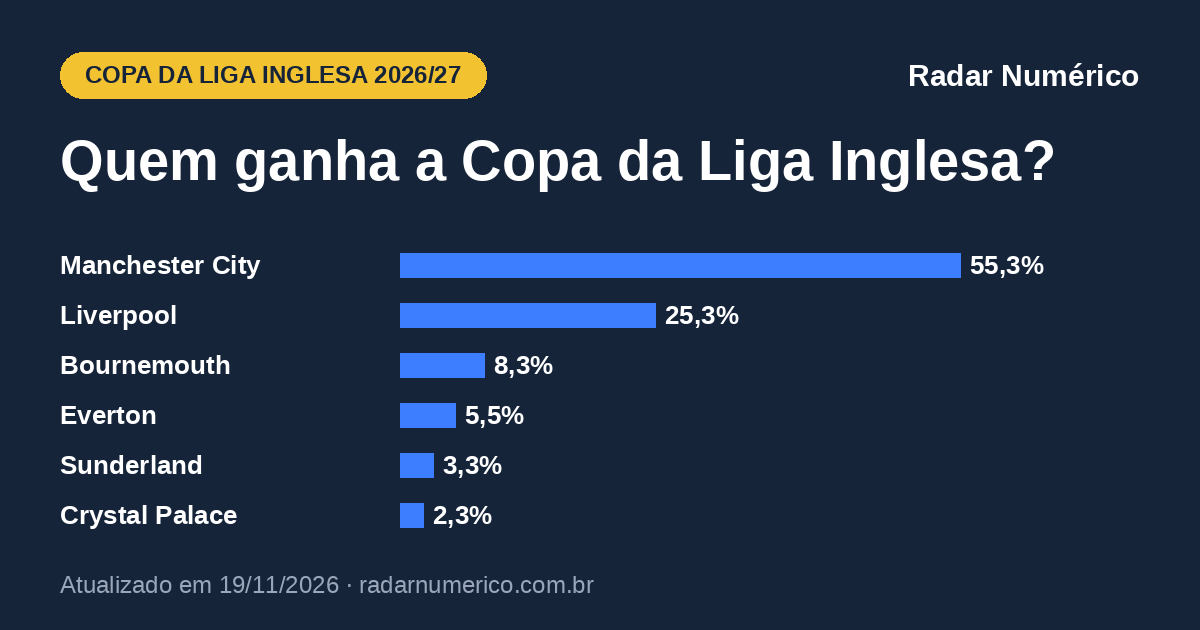
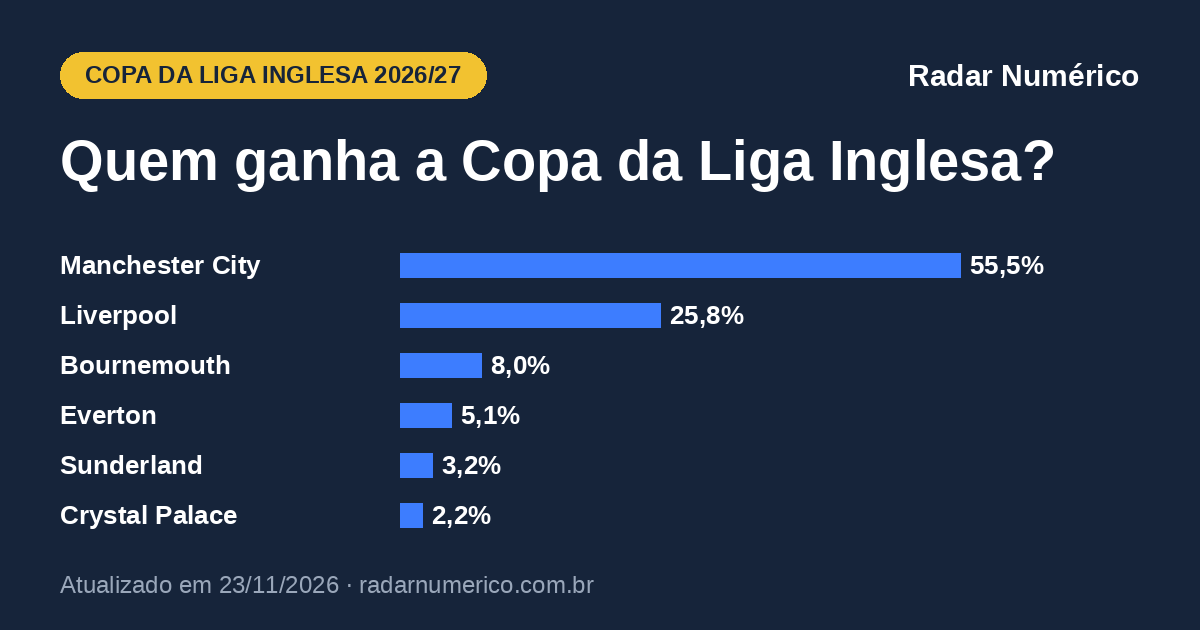
Ranking, ligas e copas europeias: atualização semanal 2026-11-23 - futebol/copa-da-liga-inglesa
Claude-Session: https://claude.ai/code/session_014c9M3oryqlsr8hzscwb7oa

diff --git a/futebol/copa-da-liga-inglesa/index.html b/futebol/copa-da-liga-inglesa/index.html
@@ -13,11 +13,11 @@
 <meta property="og:title" content="Copa da Liga Inglesa 2026/27: chances de título">
 <meta property="og:description" content="Probabilidades da Copa da Liga Inglesa 2026/27: chance de cada time chegar às quartas, à semifinal, à final e de ser campeão.">
 <meta property="og:url" content="https://radarnumerico.com.br/futebol/copa-da-liga-inglesa/">
-<meta property="og:image" content="https://radarnumerico.com.br/futebol/copa-da-liga-inglesa/og.png?v=202611190848">
+<meta property="og:image" content="https://radarnumerico.com.br/futebol/copa-da-liga-inglesa/og.png?v=202611230848">
 <meta property="og:image:width" content="1200">
 <meta property="og:image:height" content="630">
 <meta name="twitter:card" content="summary_large_image">
-<script type="application/ld+json">{"@context": "https://schema.org", "@graph": [{"@type": "WebPage", "@id": "https://radarnumerico.com.br/futebol/copa-da-liga-inglesa/", "url": "https://radarnumerico.com.br/futebol/copa-da-liga-inglesa/", "name": "Copa da Liga Inglesa 2026/27: chances de título", "description": "Probabilidades da Copa da Liga Inglesa 2026/27: chance de cada time chegar às quartas, à semifinal, à final e de ser campeão.", "inLanguage": "pt-BR", "dateModified": "2026-11-19T08:48:00-03:00", "isPartOf": {"@type": "WebSite", "name": "Radar Numérico", "url": "https://radarnumerico.com.br/"}, "about": {"@type": "Thing", "name": "Copa da Liga Inglesa 2026/27"}}, {"@type": "BreadcrumbList", "itemListElement": [{"@type": "ListItem", "position": 1, "name": "Radar Numérico", "item": "https://radarnumerico.com.br/"}, {"@type": "ListItem", "position": 2, "name": "Copa da Liga Inglesa 2026/27: probabilidades", "item": "https://radarnumerico.com.br/futebol/copa-da-liga-inglesa/"}]}]}</script>
+<script type="application/ld+json">{"@context": "https://schema.org", "@graph": [{"@type": "WebPage", "@id": "https://radarnumerico.com.br/futebol/copa-da-liga-inglesa/", "url": "https://radarnumerico.com.br/futebol/copa-da-liga-inglesa/", "name": "Copa da Liga Inglesa 2026/27: chances de título", "description": "Probabilidades da Copa da Liga Inglesa 2026/27: chance de cada time chegar às quartas, à semifinal, à final e de ser campeão.", "inLanguage": "pt-BR", "dateModified": "2026-11-23T08:48:00-03:00", "isPartOf": {"@type": "WebSite", "name": "Radar Numérico", "url": "https://radarnumerico.com.br/"}, "about": {"@type": "Thing", "name": "Copa da Liga Inglesa 2026/27"}}, {"@type": "BreadcrumbList", "itemListElement": [{"@type": "ListItem", "position": 1, "name": "Radar Numérico", "item": "https://radarnumerico.com.br/"}, {"@type": "ListItem", "position": 2, "name": "Copa da Liga Inglesa 2026/27: probabilidades", "item": "https://radarnumerico.com.br/futebol/copa-da-liga-inglesa/"}]}]}</script>
 <link rel="icon" type="image/png" href="/favicon.png">
 <link rel="apple-touch-icon" href="/apple-touch-icon.png">
 <link rel="preconnect" href="https://fonts.googleapis.com">
@@ -441,8 +441,8 @@ table.mzf td.bc{color:#fff}
 <header class="pg">
   <div class="kicker">Futebol · Inglaterra</div>
   <h1>Copa da Liga Inglesa 2026/27: chances de título</h1>
-  <div class="selo" id="selo"><span>Atualizado em <b>19/11/2026 às 08h48</b></span><span>fase atual: <b>Quartas</b></span><span>8 times vivos</span></div>
-  <p class="lede">O favorito ao título da Copa da Liga Inglesa é o <b>Manchester City</b>, com 55,3%, seguido por Liverpool (25,3%) e Bournemouth (8,3%). Calculamos, para os 8 times vivos, a chance de chegar a cada fase, simulando os jogos já marcados e o sorteio das fases seguintes 20 mil vezes. O campeão ganha vaga na Conference League.</p>
+  <div class="selo" id="selo"><span>Atualizado em <b>23/11/2026 às 08h48</b></span><span>fase atual: <b>Quartas</b></span><span>8 times vivos</span></div>
+  <p class="lede">O favorito ao título da Copa da Liga Inglesa é o <b>Manchester City</b>, com 55,5%, seguido por Liverpool (25,8%) e Bournemouth (8,0%). Calculamos, para os 8 times vivos, a chance de chegar a cada fase, simulando os jogos já marcados e o sorteio das fases seguintes 20 mil vezes. O campeão ganha vaga na Conference League.</p>
 </header>
 
 <section class="g" id="s-trilha">
@@ -500,7 +500,7 @@ table.mzf td.bc{color:#fff}
 
 <div class="metod">
   <p class="marca">Radar Numérico</p>
-  <p id="rodape">Probabilidades da Copa da Liga Inglesa 2026/27 atualizadas em 19/11/2026 às 08h48.</p>
+  <p id="rodape">Probabilidades da Copa da Liga Inglesa 2026/27 atualizadas em 23/11/2026 às 08h48.</p>
   <p>Como calculamos: um algoritmo desenvolvido pelo economista Augusto Pellegrini estima a força de cada time a partir das cotações de mercado de todos os seus jogos recentes, em todas as competições. Simulamos a copa 20 mil vezes: os jogos já marcados e, depois, o sorteio de cada fase. Empate em jogo único vai à prorrogação e aos pênaltis. Fonte: Radar Numérico.</p>
 </div>
 </main>
@@ -509,7 +509,7 @@ table.mzf td.bc{color:#fff}
 <div id="tip" role="tooltip"></div>
 <div id="toast" role="status"></div>
 <script>
-const D = {"slug":"copa-da-liga-inglesa","nome":"Copa da Liga Inglesa","gerado_em":"2026-11-19T08:48","tams":[8,4,2,1],"rot":["Quartas","Semifinal","Final","Campeão"],"atual_rot":"Quartas","cai_antes":"","n_vivos":8,"times":{"Manchester City":{"id":"2528","fases":[1.0,0.8432,0.7367,0.5528],"campeao":0.5528,"forca":74.1,"cab":false},"Bournemouth":{"id":"2342","fases":[1.0,0.6115,0.2719,0.0832],"campeao":0.0832,"forca":60.4,"cab":false},"Crystal Palace":{"id":"2537","fases":[1.0,0.4711,0.1235,0.0232],"campeao":0.0232,"forca":53.3,"cab":false},"Liverpool":{"id":"2538","fases":[1.0,0.7403,0.5093,0.2526],"campeao":0.2526,"forca":67.9,"cab":false},"Fleetwood Town":{"id":"1167","fases":[1.0,0.088,0.0008,0.0],"campeao":0.0,"forca":27.1,"cab":false},"Bradford City":{"id":"2321","fases":[1.0,0.1915,0.0073,0.0001],"campeao":0.0001,"forca":36.2,"cab":false},"Sunderland":{"id":"2364","fases":[1.0,0.5039,0.1495,0.0333],"campeao":0.0333,"forca":55.3,"cab":false},"Everton":{"id":"2526","fases":[1.0,0.5507,0.2011,0.0546],"campeao":0.0546,"forca":57.7,"cab":false}},"ordem":["Manchester City","Liverpool","Bournemouth","Everton","Sunderland","Crystal Palace","Bradford City","Fleetwood Town"],"confrontos":[],"finais":[{"a":"Manchester City","b":"Liverpool","p":0.3128,"pa":0.6445},{"a":"Bournemouth","b":"Manchester City","p":0.1543,"pa":0.2061},{"a":"Everton","b":"Manchester City","p":0.1115,"pa":0.1821},{"a":"Sunderland","b":"Manchester City","p":0.0843,"pa":0.1407},{"a":"Bournemouth","b":"Liverpool","p":0.0721,"pa":0.3331},{"a":"Manchester City","b":"Crystal Palace","p":0.0692,"pa":0.875}],"outros":0.0002,"matriz":{"tipo":"sorteio","linhas":[["Manchester City",0.7367],["Liverpool",0.5093],["Bournemouth",0.2719],["Everton",0.2011],["Sunderland",0.1495]],"colunas":[["Liverpool",0.5093],["Bournemouth",0.2719],["Everton",0.2011],["Sunderland",0.1495],["Crystal Palace",0.1235]],"cel":[[0.3128,0.1543,0.1115,0.0843,0.0692],[null,0.0721,0.0529,0.0372,0.0323],[null,null,0.02,0.0137,0.0111],[null,null,null,0.0099,0.0065],[null,null,null,null,0.0044]]},"chave":{"fases":["Quartas","Semifinal","Final"],"jogos":[[null,null],[null,null],[null,null],[null,null]],"atual":true,"p":null,"fixa":false},"SIGLA":{"Manchester City":"MCI","Bournemouth":"BOU","Crystal Palace":"CRY","Liverpool":"LIV","Fleetwood Town":"FLE","Bradford City":"BRA","Sunderland":"SUN","Everton":"EVE"},"SLUG":{"Manchester City":"manchester-city","Bournemouth":"bournemouth","Crystal Palace":"crystal-palace","Liverpool":"liverpool","Fleetwood Town":"fleetwood-town","Bradford City":"bradford-city","Sunderland":"sunderland","Everton":"everton"},"CORES":{"Manchester City":["#6CABDD","#1C2C5B"],"Bournemouth":["#111111","#FFFFFF"],"Crystal Palace":["#0055A4","#FFFFFF"],"Liverpool":["#C8102E","#00B2A9"],"Fleetwood Town":["#00843D","#FFFFFF"],"Bradford City":["#F2C230","#FFFFFF"],"Sunderland":["#16243A","#FFFFFF"],"Everton":["#5B2C83","#FFFFFF"]},"vaga":"Conference League","liga":"premier-league","liga_nome":"Premier League","nota_fase":"Jogos únicos até as quartas; semifinal em ida e volta.","final":"Final em Wembley, em jogo único.","ultimo_jogo":{"data":"2026-10-29","hora":"16:45","m":"Everton","v":"Newcastle","gm":3,"gv":1,"rodada":"Round 4"}};
+const D = {"slug":"copa-da-liga-inglesa","nome":"Copa da Liga Inglesa","gerado_em":"2026-11-23T08:48","tams":[8,4,2,1],"rot":["Quartas","Semifinal","Final","Campeão"],"atual_rot":"Quartas","cai_antes":"","n_vivos":8,"times":{"Manchester City":{"id":"2528","fases":[1.0,0.8442,0.7409,0.5553],"campeao":0.5553,"forca":74.4,"cab":false},"Bournemouth":{"id":"2342","fases":[1.0,0.6058,0.2687,0.0804],"campeao":0.0804,"forca":60.4,"cab":false},"Crystal Palace":{"id":"2537","fases":[1.0,0.4699,0.1203,0.0222],"campeao":0.0222,"forca":53.2,"cab":false},"Liverpool":{"id":"2538","fases":[1.0,0.7453,0.5132,0.2584],"campeao":0.2584,"forca":68.3,"cab":false},"Fleetwood Town":{"id":"1167","fases":[1.0,0.0866,0.0008,0.0],"campeao":0.0,"forca":27.3,"cab":false},"Bradford City":{"id":"2321","fases":[1.0,0.1925,0.0066,0.0003],"campeao":0.0003,"forca":36.4,"cab":false},"Sunderland":{"id":"2364","fases":[1.0,0.5056,0.1525,0.0323],"campeao":0.0323,"forca":55.3,"cab":false},"Everton":{"id":"2526","fases":[1.0,0.55,0.197,0.0512],"campeao":0.0512,"forca":57.8,"cab":false}},"ordem":["Manchester City","Liverpool","Bournemouth","Everton","Sunderland","Crystal Palace","Bradford City","Fleetwood Town"],"confrontos":[],"finais":[{"a":"Manchester City","b":"Liverpool","p":0.3166,"pa":0.639},{"a":"Bournemouth","b":"Manchester City","p":0.1535,"pa":0.1996},{"a":"Everton","b":"Manchester City","p":0.1113,"pa":0.1802},{"a":"Sunderland","b":"Manchester City","p":0.0862,"pa":0.1357},{"a":"Bournemouth","b":"Liverpool","p":0.0716,"pa":0.3135},{"a":"Manchester City","b":"Crystal Palace","p":0.0687,"pa":0.8718}],"outros":0.0,"matriz":{"tipo":"sorteio","linhas":[["Manchester City",0.7409],["Liverpool",0.5132],["Bournemouth",0.2687],["Everton",0.197],["Sunderland",0.1525]],"colunas":[["Liverpool",0.5132],["Bournemouth",0.2687],["Everton",0.197],["Sunderland",0.1525],["Crystal Palace",0.1203]],"cel":[[0.3166,0.1535,0.1113,0.0862,0.0687],[null,0.0716,0.0515,0.0394,0.0322],[null,null,0.0194,0.0135,0.0102],[null,null,null,0.0093,0.0052],[null,null,null,null,0.004]]},"chave":{"fases":["Quartas","Semifinal","Final"],"jogos":[[null,null],[null,null],[null,null],[null,null]],"atual":true,"p":null,"fixa":false},"SIGLA":{"Manchester City":"MCI","Bournemouth":"BOU","Crystal Palace":"CRY","Liverpool":"LIV","Fleetwood Town":"FLE","Bradford City":"BRA","Sunderland":"SUN","Everton":"EVE"},"SLUG":{"Manchester City":"manchester-city","Bournemouth":"bournemouth","Crystal Palace":"crystal-palace","Liverpool":"liverpool","Fleetwood Town":"fleetwood-town","Bradford City":"bradford-city","Sunderland":"sunderland","Everton":"everton"},"CORES":{"Manchester City":["#6CABDD","#1C2C5B"],"Bournemouth":["#111111","#FFFFFF"],"Crystal Palace":["#0055A4","#FFFFFF"],"Liverpool":["#C8102E","#00B2A9"],"Fleetwood Town":["#00843D","#FFFFFF"],"Bradford City":["#F2C230","#FFFFFF"],"Sunderland":["#16243A","#FFFFFF"],"Everton":["#5B2C83","#FFFFFF"]},"vaga":"Conference League","liga":"premier-league","liga_nome":"Premier League","nota_fase":"Jogos únicos até as quartas; semifinal em ida e volta.","final":"Final em Wembley, em jogo único.","ultimo_jogo":{"data":"2026-10-29","hora":"16:45","m":"Everton","v":"Newcastle","gm":3,"gv":1,"rodada":"Round 4"}};
 const T = D.times, ORD = D.ordem;
 const $ = s => document.querySelector(s);
 const SLUG = D.SLUG, SIGLA = D.SIGLA, CORES = D.CORES, ESC_DIR = 'escudos/';
